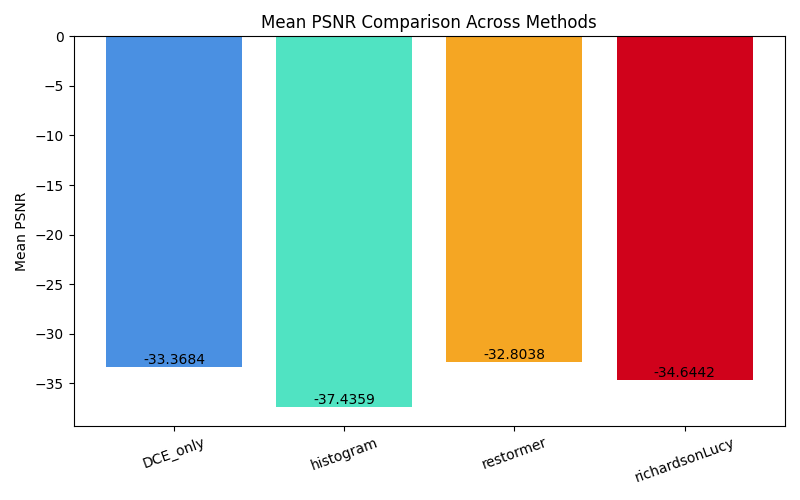
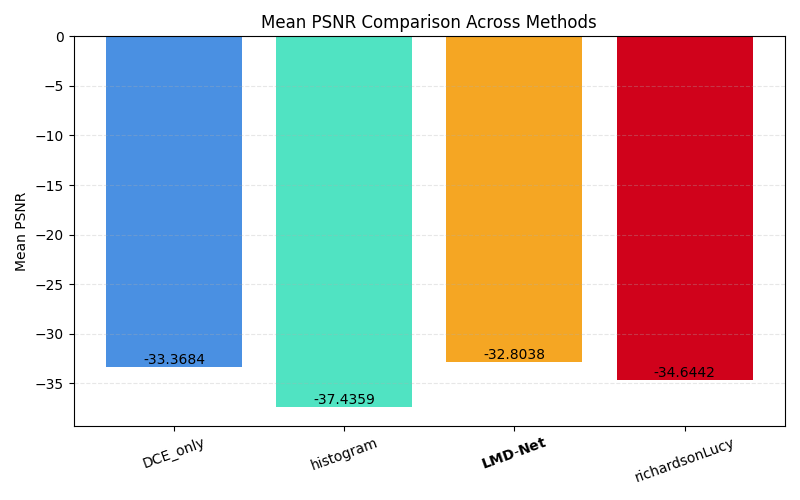
methods comparison

Changed region(s): [[0.5938, 0.87, 0.6875, 0.93]]

diff --git a/compare_methods.py b/compare_methods.py
@@ -4,8 +4,14 @@ import pandas as pd
 import matplotlib.pyplot as plt
 import numpy as np
 
+# ============================================================
+# ============================================================
 def parse_summary(file_path):
     method_name = os.path.basename(file_path).replace("_snr_summary.txt", "")
+
+    # 替换 restormer → LMD-Net
+    if method_name.lower() == "restormer":
+        method_name = "LMD-Net"
 
     mean_snr = None
     mean_psnr = None
@@ -27,6 +33,7 @@ def parse_summary(file_path):
         "Mean SSIM": mean_ssim
     }
 
+
 summary_files = [
     "dataset/DCE_only_snr_summary.txt",
     "dataset/histogram_snr_summary.txt",
@@ -35,8 +42,6 @@ summary_files = [
 ]
 
 results = []
-
-
 for file in summary_files:
     if not os.path.exists(file):
         print(f"❌ no file: {file}")
@@ -44,15 +49,17 @@ for file in summary_files:
     print(f"read: {file}")
     results.append(parse_summary(file))
 
-# DataFrame
 df = pd.DataFrame(results)
 print("\n==================================")
 print(df)
-print("================================================\n")
+print("==================================\n")
 
 df.to_csv("method_comparison.csv", index=False)
-print(" method_comparison.csv")
+print("method_comparison.csv saved\n")
 
+
+# ============================================================
+# ============================================================
 def plot_metric(df, metric, save_name):
     plt.figure(figsize=(8, 5))
 
@@ -67,27 +74,130 @@ def plot_metric(df, metric, save_name):
         plt.text(
             bar.get_x() + bar.get_width() / 2,
             height,
-            f"{value:.4f}",  
+            f"{value:.4f}",
             ha='center',
             va='bottom',
             fontsize=10
         )
 
-    plt.xticks(x, df["Method"], rotation=20)
+    xticks = []
+    for m in df["Method"]:
+        if m == "LMD-Net":
+            xticks.append(r"$\mathbf{LMD\text{-}Net}$")
+        else:
+            xticks.append(m)
+
+    plt.xticks(x, xticks, rotation=20)
     plt.ylabel(metric)
     plt.title(f"{metric} Comparison Across Methods")
+    plt.grid(axis="y", linestyle="--", alpha=0.3)
     plt.tight_layout()
     plt.savefig(save_name)
     plt.close()
-
     print(f"Saved → {save_name}")
 
 
-# ------------------------------------------------------
-#（SNR / PSNR / SSIM）
-# ------------------------------------------------------
+# ============================================================
+# ============================================================
+def plot_radar(df, save_name="comparison_radar.png"):
+    metrics = ["Mean SNR", "Mean PSNR", "Mean SSIM"]
+    methods = df["Method"].tolist()
+
+    data = df[metrics].values
+    data_norm = (data - data.min(axis=0)) / (data.max(axis=0) - data.min(axis=0) + 1e-8)
+
+    angles = np.linspace(0, 2 * np.pi, len(metrics), endpoint=False).tolist()
+    angles += angles[:1]
+
+    fig = plt.figure(figsize=(7, 7))
+    ax = plt.subplot(111, polar=True)
+
+    for i, method in enumerate(methods):
+        values = data_norm[i].tolist() + [data_norm[i][0]]
+
+        lbl = r"$\mathbf{LMD\text{-}Net}$" if method == "LMD-Net" else method
+
+        ax.plot(angles, values, linewidth=2, label=lbl)
+        ax.fill(angles, values, alpha=0.15)
+
+    ax.set_xticks(angles[:-1])
+    ax.set_xticklabels(metrics)
+    plt.title("Radar Comparison Across Methods")
+    plt.legend(loc="lower right")
+    plt.tight_layout()
+    plt.savefig(save_name)
+    plt.close()
+    print("Saved →", save_name)
+
+
+# ============================================================
+# ============================================================
+def plot_line(df, save_name="comparison_line.png"):
+    metrics = ["Mean SNR", "Mean PSNR", "Mean SSIM"]
+    x = np.arange(len(metrics))
+
+    plt.figure(figsize=(8, 5))
+
+    for _, row in df.iterrows():
+        label = r"$\mathbf{LMD\text{-}Net}$" if row["Method"] == "LMD-Net" else row["Method"]
+        plt.plot(x, row[metrics], marker='o', linewidth=2, label=label)
+
+    plt.xticks(x, metrics)
+    plt.ylabel("Value")
+    plt.title("Line Comparison Across Methods")
+    plt.grid(alpha=0.3)
+    plt.legend()
+    plt.tight_layout()
+    plt.savefig(save_name)
+    plt.close()
+    print("Saved →", save_name)
+
+
+# ============================================================
+# ============================================================
+def plot_heatmap(df, save_name="comparison_heatmap.png"):
+    metrics = ["Mean SNR", "Mean PSNR", "Mean SSIM"]
+    data = df.set_index("Method")[metrics]
+
+    plt.figure(figsize=(6, 4))
+    im = plt.imshow(data, cmap="coolwarm", aspect="auto")
+
+    plt.colorbar(im, fraction=0.046, pad=0.04)
+
+    # X
+    plt.xticks(range(len(metrics)), metrics, rotation=20)
+
+    # Y  LMD-Net
+    yticks = []
+    for m in data.index:
+        if m == "LMD-Net":
+            yticks.append(r"$\mathbf{LMD\text{-}Net}$")
+        else:
+            yticks.append(m)
+    plt.yticks(range(len(data.index)), yticks)
+
+    for i in range(data.shape[0]):
+        for j in range(data.shape[1]):
+            plt.text(
+                j, i, f"{data.iloc[i, j]:.4f}",
+                ha="center", va="center", fontsize=8
+            )
+
+    plt.title("Metric Heatmap Across Methods")
+    plt.tight_layout()
+    plt.savefig(save_name)
+    plt.close()
+    print("Saved →", save_name)
+
+
+# ============================================================
+# ============================================================
 plot_metric(df, "Mean SNR", "comparison_snr.png")
 plot_metric(df, "Mean PSNR", "comparison_psnr.png")
 plot_metric(df, "Mean SSIM", "comparison_ssim.png")
+
+plot_radar(df, "comparison_radar.png")
+plot_line(df, "comparison_line.png")
+plot_heatmap(df, "comparison_heatmap.png")
 
 print("over！")
